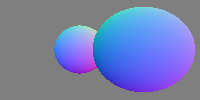
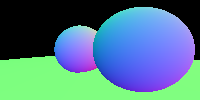
Refactor sphere-ray intersections to discard negative distance values

diff --git a/src/geometry.cpp b/src/geometry.cpp
@@ -6,7 +6,7 @@ Sphere::Sphere(const Vector3& center, float radius)
     : center(center), radius(radius), radius2(radius * radius) { }
 
 Intersection::Intersection()
-    : distance(std::numeric_limits<float>::max()) { }
+    : distance(std::numeric_limits<float>::max()), hit(false) { }
 
 Intersection intersects(const Sphere& sphere, const Ray& ray)
 {
@@ -20,17 +20,25 @@ Intersection intersects(const Sphere& sphere, const Ray& ray)
 
     if (descriminant > 0)
     {
-        float t = (-b - sqrt(descriminant)) / a;
+        float t0 = (-b - sqrt(descriminant)) / a;
+        float t1 = (-b + sqrt(descriminant)) / a;
 
-        intersection.distance = t;
-        intersection.type = ObjectType::Sphere;
-        intersection.point = ray_get_point(ray, t);
+        if (t0 > t1)
+            t0 = t1;
 
-        Vector3 dir = intersection.point - sphere.center;
-        normalize(dir);
-        intersection.normal = dir;
-
-        intersection.hit = true;
+        if (t0 > 0)
+        {
+            intersection.distance = t0;
+            intersection.type = ObjectType::Sphere;
+            intersection.point = ray_get_point(ray, t0);
+    
+            Vector3 dir = intersection.point - sphere.center;
+            normalize(dir);
+            intersection.normal = dir;
+    
+            intersection.hit = true;
+            return intersection;
+        }
     }
 
     return intersection;

diff --git a/src/main.cpp b/src/main.cpp
@@ -1,5 +1,4 @@
 #include <iostream>
-#include <future>
 #include "utilities.h"
 #include "geometry.h"
 
@@ -16,7 +15,8 @@ int main()
 	std::vector<Sphere> spheres
 	{
 		Sphere(Vector3(0.5f, 0, -1.5), 0.65f),
-		Sphere(Vector3(-0.5f, 0, -1), 0.65f)
+		Sphere(Vector3(-0.5f, 0, -1), 0.65f),
+		Sphere(Vector3(0, -100.5f, -1), 100)
 	};
 	
 	printf("Resolution: %i, %i\n", IMAGE_WIDTH, IMAGE_HEIGHT);
@@ -45,7 +45,9 @@ int main()
 				Intersection temp = intersects(spheres[i], ray);
 				
 				if (temp.distance < intersection.distance)
+				{
 					intersection = temp;
+				}
 			}
 
 			if (intersection.hit)
